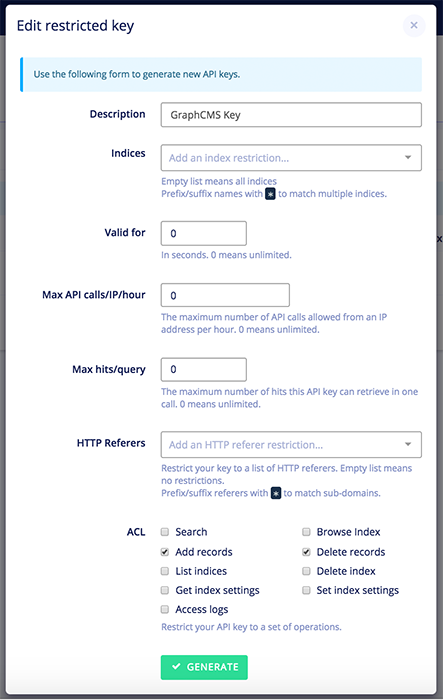
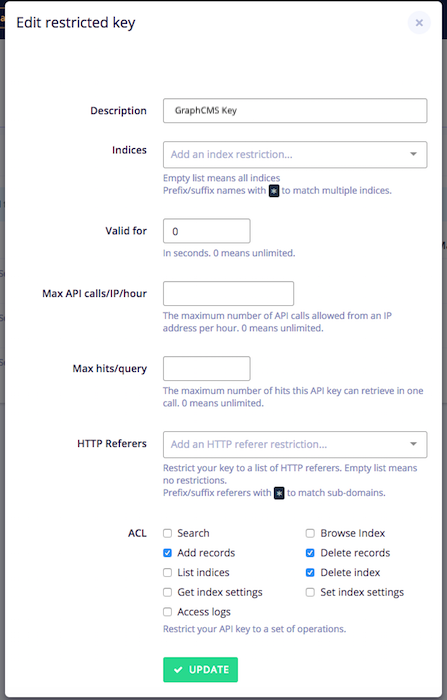
New content for algolia

diff --git a/docs/integrations/Algolia.md b/docs/integrations/Algolia.md
@@ -1,21 +1,22 @@
 # Algolia
 
 !!! Hint ""
-    All of Algolias indexing is not covered within our pricing plans, so you might create extra costs with a lot of indices or records. The free plan includes 10.000 records and 100.000 operations.
+    All of Algolias indexing is not covered within our pricing plans, so you might create extra costs with a lot of indices or records. Algolias free community plan includes 10.000 records and 100.000 operations and you have to display their logo on your search results.
 
 To get started with Algolia you firstly need an [Algolia Account](https://www.algolia.com/users/sign_up). In the next step you log into your GraphCMS project dashboard and choose "Integrations" in the left menu bar. There you select "Algolia".
 
-BILD IntegrationsView
+![Algolia Integrations View](../img/integrations/integration_view.png)
 
 You will be prompted with your Algolia `Application ID` and `API Key`. To retrieve them you switch back to your Algolia dashboard and select API Keys on the menu. The first entry there is your `Application ID`. 
 
 Next we need to create an `API Key`. Click on *"All API Keys"* and then *"New API Key"*.
 ![Algolia API Keys](../img/integrations/algolia_api_keys.png)
 
-The new API Key needs to have *"Add records"* and *"Delete Records"* checked.
+The new API Key needs to have *"Add records"*, *"Delete Records"* and *Delete Index* checked.
 ![Create New API Key](../img/integrations/algolia_create_key.png)
 
 Now you can copy & paste both the `Application ID` and `API Key` in the GraphCMS prompt.
 
+You will then be redirected to the Algolia configuration. From here you can create indices.
 
 
